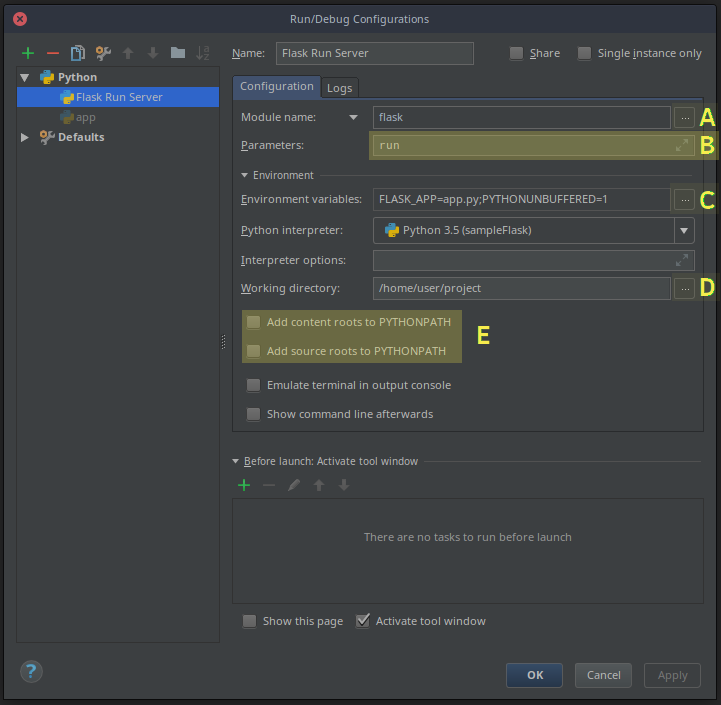
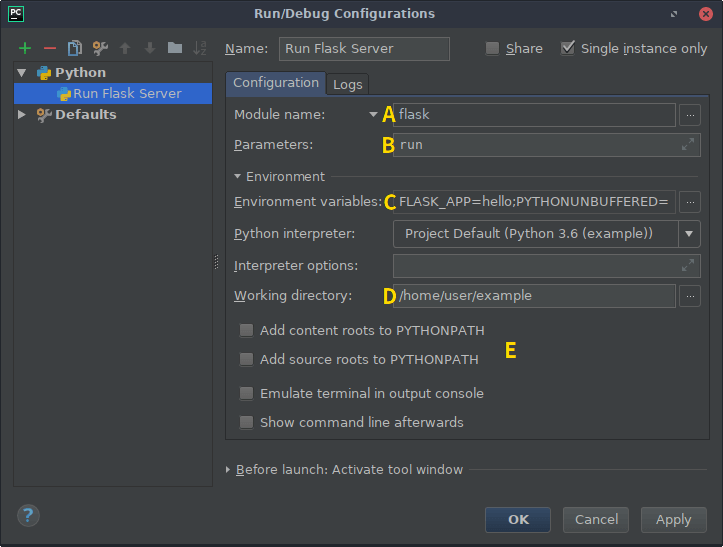
smaller, optimized image reword / reformat the docs fix tox build directory

Changed region(s): [[0.0, 0.0, 1.0, 0.9945], [0.3051, 0.8391, 0.6713, 0.9013], [0.7018, 0.6216, 0.7323, 0.6527]]

diff --git a/docs/cli.rst b/docs/cli.rst
@@ -343,40 +343,51 @@ script is available. Note that you don't need to set ``FLASK_APP``. ::
 PyCharm Integration
 -------------------
 
-The new Flask CLI features aren't yet fully integrated into the PyCharm IDE,
-so we have to do a few tweaks to get them working smoothly. These instructions
-should be similar for any other IDE you might want to use.
+The Flask CLI features aren't yet fully integrated into the PyCharm IDE,
+so we have to do a few tweaks to get them working smoothly. These
+instructions should be similar for any other IDE you might want to use.
 
-In PyCharm, with your project open, click on *Run* from the menu bar and go to
-*Edit Configurations*. You'll be greeted by a screen similar to this:
+In PyCharm, with your project open, click on *Run* from the menu bar and
+go to *Edit Configurations*. You'll be greeted by a screen similar to
+this:
 
 .. image:: _static/pycharm-runconfig.png
-   :align: center
-   :class: screenshot
-   :alt: screenshot of pycharm's run configuration settings
+    :align: center
+    :class: screenshot
+    :alt: screenshot of pycharm's run configuration settings
 
-There's quite a few options to change, but once we've done it for one command,
-we can easily copy the entire configuration and make a single tweak to give us
-access to other commands, including any custom ones you may implement yourself.
+There's quite a few options to change, but once we've done it for one
+command, we can easily copy the entire configuration and make a single
+tweak to give us access to other commands, including any custom ones you
+may implement yourself.
 
-Since PyCharm 2017.3, you can run modules instead of needing to find ``flask``
-executable. For the *Module name* input (**A**), you just need to input ``flask``.
+Click the + (*Add New Configuration*) button and select *Python*. Give
+the configuration a good descriptive name such as "Run Flask Server".
+For the ``flask run`` command, check "Single instance only" since you
+can't run the server more than once at the same time.
 
-The *Parameters* field (**B**) is set to the CLI command you to execute.
-In this example we use ``run``, which will run the development server.
+Select *Module name* from the dropdown (**A**) then input ``flask``.
 
-You can skip this next step if you're using :ref:`dotenv`. We need to add an
-environment variable (**C**) to identify our application. Click on the browse
-button and add an entry with ``FLASK_APP`` on the left and the name of the
-Python file or package on the right (``app.py`` for example).
+The *Parameters* field (**B**) is set to the CLI command to execute
+(with any arguments). In this example we use ``run``, which will run
+the development server.
 
-Next we need to set the working directory (**D**) to be the same folder where
-our application file or package resides. PyCharm changed it to the directory
-with the ``flask`` executable when we selected it earlier, which is incorrect.
+You can skip this next step if you're using :ref:`dotenv`. We need to
+add an environment variable (**C**) to identify our application. Click
+on the browse button and add an entry with ``FLASK_APP`` on the left and
+the Python import or file on the right (``hello`` for example).
 
-Finally, untick the *PYTHONPATH* options (**E**) and give the configuration a
-good descriptive name, such as "Run Flask Server", and click *Apply*.
+Next we need to set the working directory (**D**) to be the folder where
+our application resides.
 
-Now that we have a configuration which runs ``flask run`` from within PyCharm,
-we can simply copy that configuration and alter the *Script* argument
+If you have installed your project as a package in your virtualenv, you
+may untick the *PYTHONPATH* options (**E**). This will more accurately
+match how you deploy the app later.
+
+Click *Apply* to save the configuration, or *OK* to save and close the
+window. Select the configuration in the main PyCharm window and click
+the play button next to it to run the server.
+
+Now that we have a configuration which runs ``flask run`` from within
+PyCharm, we can copy that configuration and alter the *Script* argument
 to run a different CLI command, e.g. ``flask shell``.
